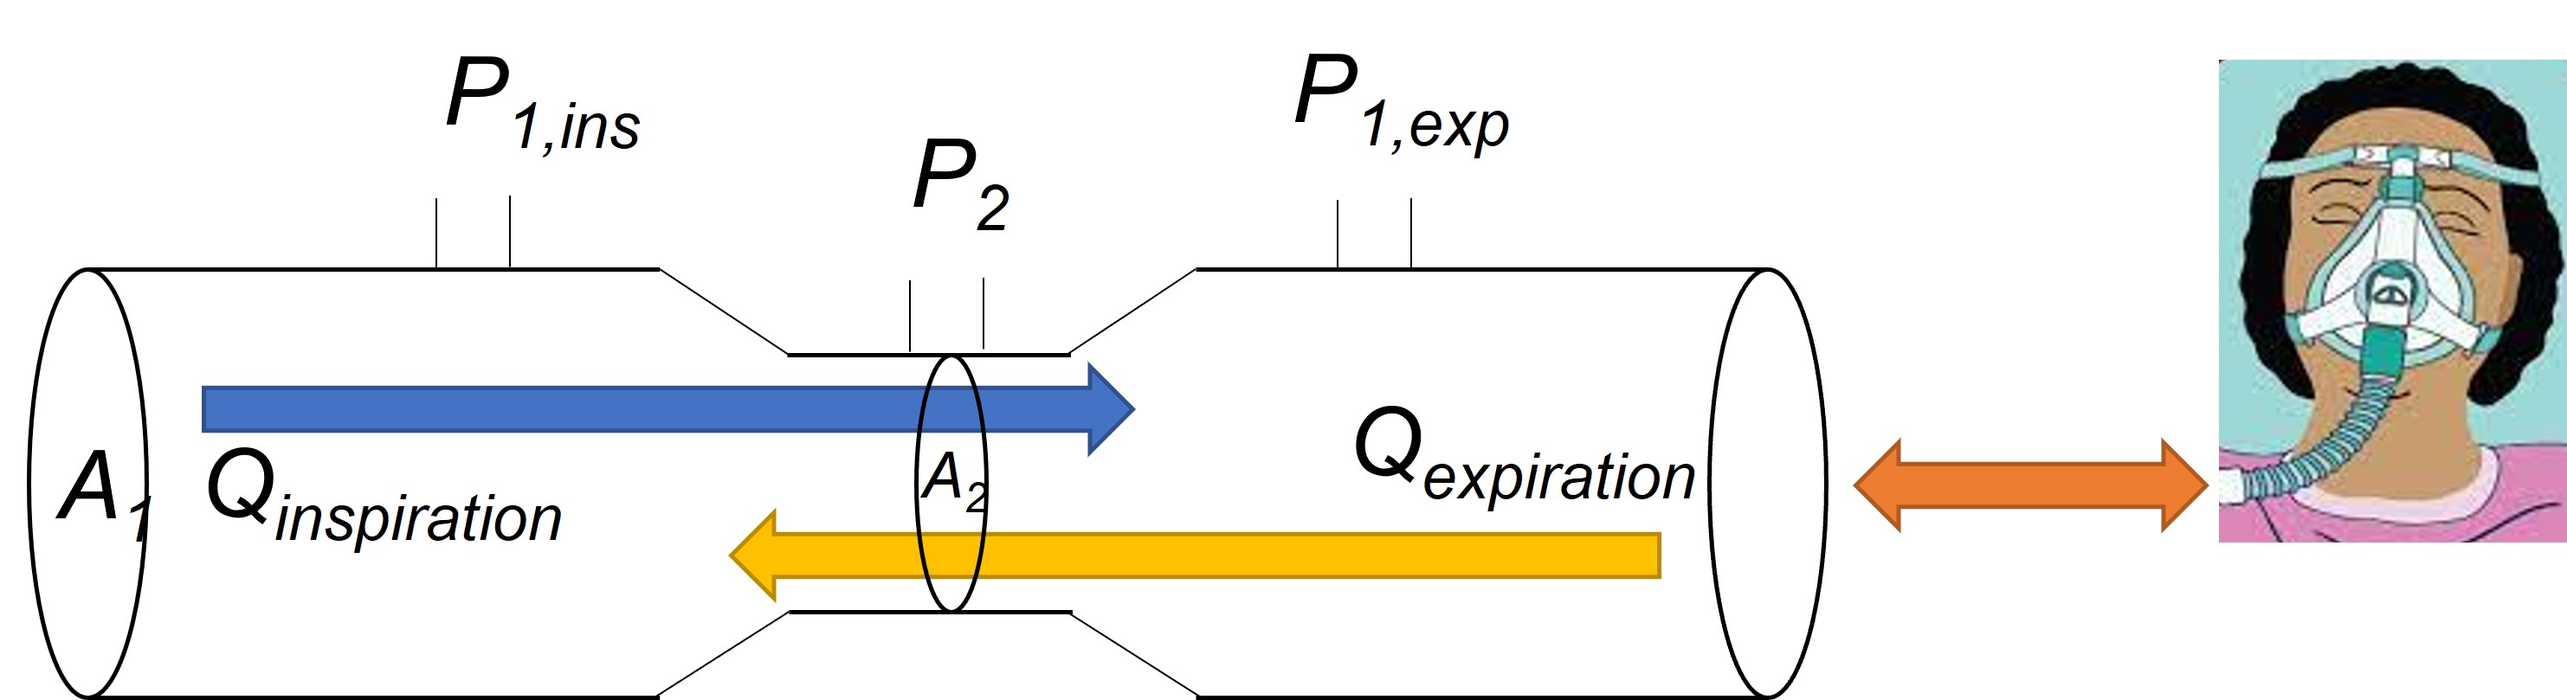
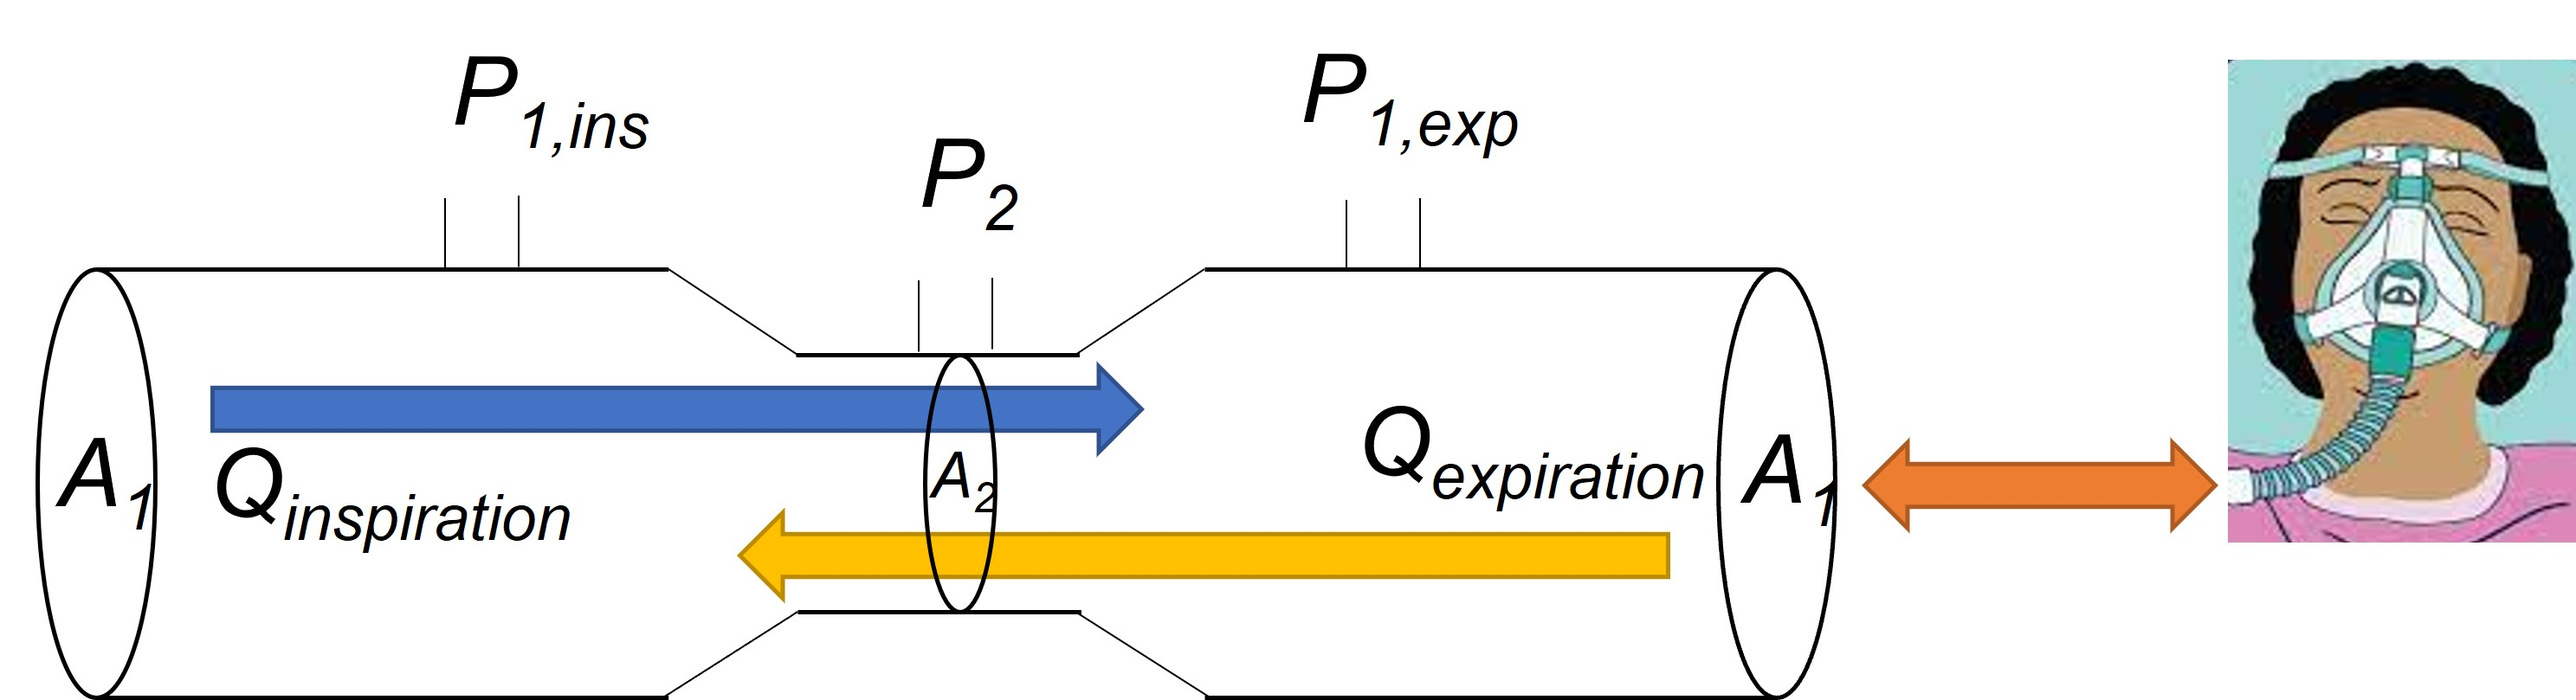
Modified figure to show A1 is on both sides of venturi, updated various typos in description, and add references

diff --git a/Assignments/CPAP Measurements/README.md b/Assignments/CPAP Measurements/README.md
@@ -42,12 +42,12 @@ for the V1 tube is shown below.
 ![V1 setup](Images/bi-directional%20venturi.jpg)
 
 Flow through a venturi tube is calculated from the pressure drop between the
-wider portion of the tube upstream of the tube and the narrow portion of the
-tube. From the Bernouli equation and conservation of mass, at a constant
-volume flowrate, the linear velocity of the flow will change as the cross-
-sectional area for flow changes.  This change in linear velocity will change
-the pressure.  The ratio of pressures and areas can be used to calculate the
-volumetric flow.
+wider portion of the tube upstream of the constriction and the narrow portion 
+of the tube. From the Bernoulli equation and conservation of mass, at a 
+constant volume flow rate, the linear velocity of the flow will change as the 
+cross-sectional area for flow changes.  This change in linear velocity will 
+change the pressure.  The ratio of pressures and areas can be used to calculate 
+the volumetric flow.
 
 ![venturi_flow_equation](Images/venturi_flow_equation.jpg)
 
@@ -96,9 +96,9 @@ patient (expiration).  The volumetric flow rate is calculated using $p_{1,exp}$
 and $p_2$ in the above equation.  The resulting flow rate is assigned a
 negative value to indicate flow away from the patient.
 
-The input file is a text file with the data for time point on a separate line.
-The seven data points for each time period are separated by commas.  The first
-line of the data file contains the description of the seven data columns.
+The input file is a text file with the data for each time point on a separate 
+line.  The seven data points for each time period are separated by commas.  The 
+first line of the data file contains the description of the seven data columns.
 
 ## Program Specifications
 * The program should read the input data from a text file.  Example input files 
@@ -130,7 +130,7 @@ calculated and saved as key-value pairs in a Python dictionary called
   should have the same name as the input file, but with an extension of `.json`
   instead of `.txt`.  Example:  the dictionary created from the input file of
   `patient_04.txt` should be saved in a JSON file called `patient_04.json`.
-* All numeric values above shold be reported as numbers (i.e., `int` or 
+* All numeric values above should be reported as numbers (i.e., `int` or 
   `float`), not as numeric strings (i.e., not `"5.3"`)
 * When calculating the `leakage`, if the leakage value is negative, a `warning`
   log entry should be added to the log indicating that the leakage is negative.
@@ -193,3 +193,16 @@ Hub.
 * Works with all the provided test data
 * Any of the workflow, python methodology, or other criteria from previous 
   assignments
+
+## References
+This assignment and the sample data used are derived from data found on 
+[PhysioNet](https://physionet.org/).
+
+Goldberger, A., Amaral, L., Glass, L., Hausdorff, J., Ivanov, P. C., Mark, R., 
+... & Stanley, H. E. (2000). PhysioBank, PhysioToolkit, and PhysioNet: 
+Components of a new research resource for complex physiologic signals. 
+Circulation [Online]. 101 (23), pp. e215–e220.
+
+Guy, E., Knopp, J., & Chase, G. (2022). CPAP Pressure and Flow Data from a 
+Local Trial of 30 Adults at the University of Canterbury (version 1.0.1). 
+PhysioNet. https://doi.org/10.13026/xfae-vv63.
